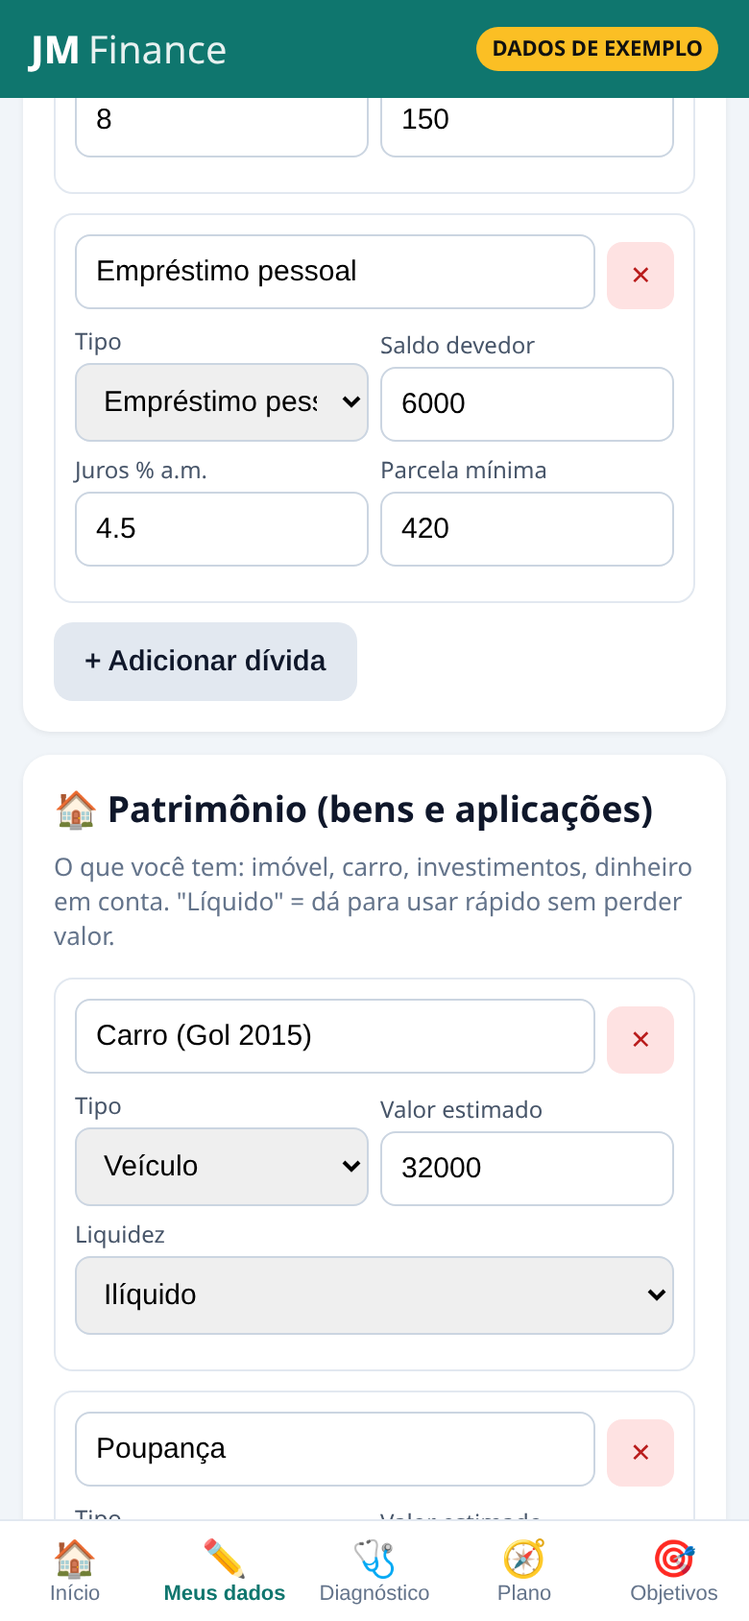
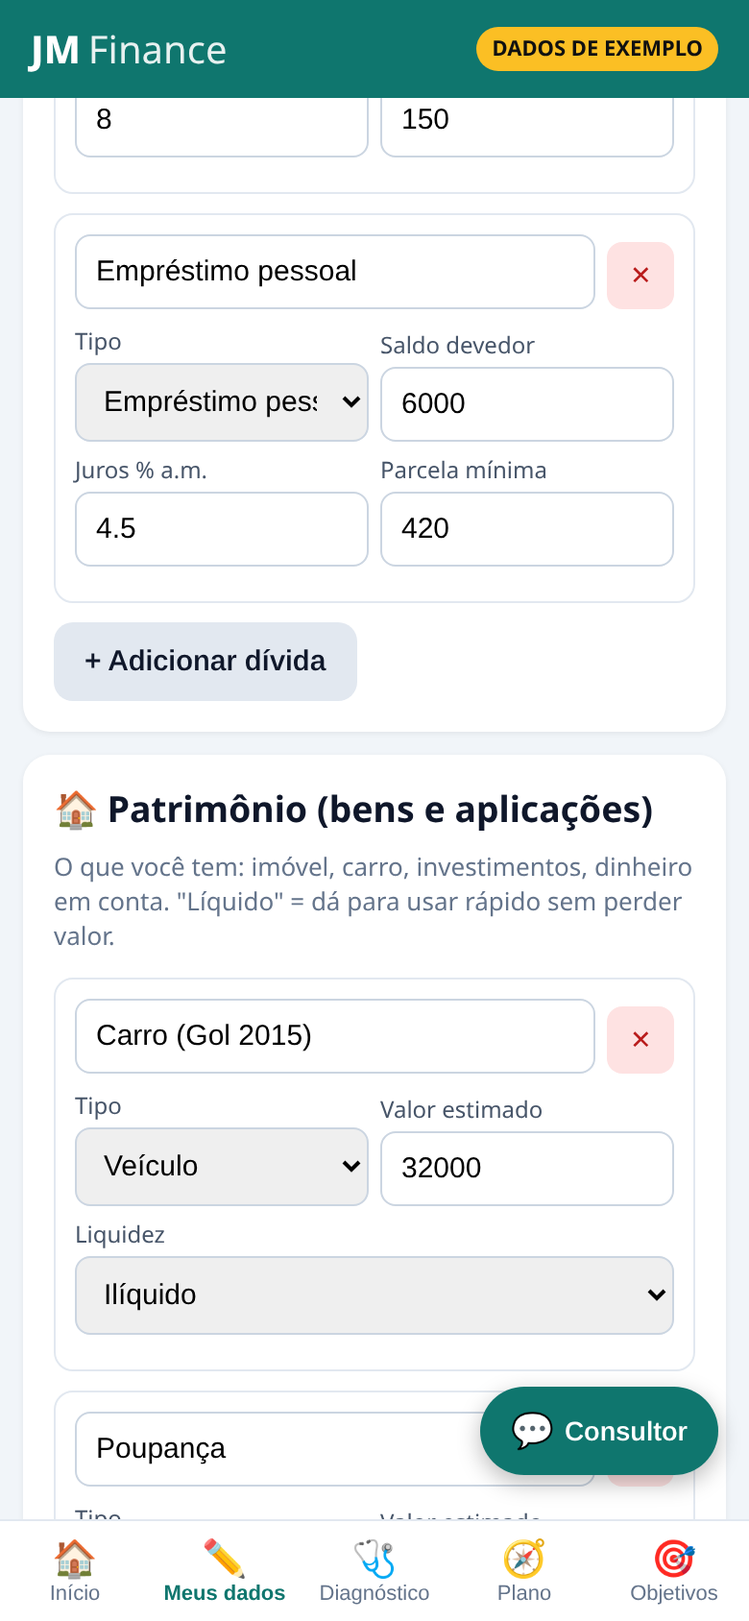
feat: Consultor JM (chat) com Modo simulação e módulo de IA agnóstico de provedor
- Botão flutuante 'Consultor' abre o chat (mantém as 5 abas)
- src/ai: interface ChatProvider.sendMessage(history, financialSummary), resumo financeiro, provedor simulado por regras e provedor remoto (futuro)
- Simulação detecta intenções (comprar/financiar, qual dívida, quanto guardar, sair do vermelho, investir, vender bens, objetivos) e responde com opções, prós, contras e riscos
- src/ai/prompt.ts: system prompt do LLM e placeholder AI_ENDPOINT_URL
- Selo MODO SIMULAÇÃO, sugestões rápidas, indicador de digitação, histórico no localStorage e aviso abaixo de cada resposta

Changed region(s): [[0.6154, 0.8318, 0.9846, 0.9242]]

diff --git a/src/ai/simulated.ts b/src/ai/simulated.ts
@@ -1,0 +1,137 @@
+import type { ChatMessage, ChatProvider, FinancialSummary as S } from './types';
+
+const brl = (n: number) => n.toLocaleString('pt-BR', { style: 'currency', currency: 'BRL' });
+const norm = (t: string) => t.toLowerCase().normalize('NFD').replace(/[\u0300-\u036f]/g, '');
+const END = '\n\nA decisão é sua — eu só mostro os caminhos e o que os números indicam.';
+
+/** Extrai um valor em reais do texto: "R$ 3.500", "3500", "3,5 mil", "40k" */
+export function parseValue(t: string): number | null {
+  const n = norm(t);
+  const m = n.match(/(\d{1,3}(?:\.\d{3})+|\d+)(?:,(\d+))?\s*(mil|k)?\b/);
+  if (!m) return null;
+  let v = Number(m[1].replace(/\./g, '') + (m[2] ? '.' + m[2] : ''));
+  if (m[3]) v *= 1000;
+  return v > 0 ? v : null;
+}
+const pmt = (pv: number, i: number, n: number) => pv * i / (1 - Math.pow(1 + i, -n));
+
+function noData() {
+  return 'Ainda não tenho seus números. Cadastre sua renda, gastos e dívidas em "Meus dados" (ou carregue os dados de exemplo na tela Início) e eu consigo responder com base na sua situação real.';
+}
+
+function purchase(s: S, text: string) {
+  const v = parseValue(text);
+  const exp = s.debts.filter(d => d.expensive);
+  const isFin = /financ|parcel|prestac|consorcio/.test(norm(text));
+  const lines: string[] = [];
+  if (!v) return 'Posso analisar! Me diga o valor aproximado, por exemplo: "posso financiar um carro de R$ 40 mil?" ou "posso comprar um celular de R$ 2.500?".';
+  lines.push(`Analisei uma compra de ${brl(v)} com base nos seus números:`);
+  lines.push(`• Saldo do mês hoje: ${brl(s.balance)} · Sobra após cortes sugeridos: ${brl(s.surplusAfterCuts)}`);
+  if (exp.length) lines.push(`• ⚠ Você tem dívidas caras (${exp.map(d => `${d.name} ${d.ratePctMonth}% a.m.`).join(', ')}). Pela ordem de prioridades, elas vêm antes de compras.`);
+  const free = s.freeForGoals, after = s.freeAfterDebts;
+  const parc24 = pmt(v, 0.02, 24);
+  lines.push('\nOpções:');
+  const P = s.payoff?.avalancheMonths ?? null;
+  let cashTxt: string;
+  if (s.debts.length && P && after > free) {
+    const during = Math.max(0, free) * P;
+    const m = v <= during ? Math.ceil(v / free) : P + Math.ceil((v - during) / after);
+    cashTxt = `guardando ${brl(Math.max(0, free))}/mês enquanto quita as dívidas (~${P} meses) e ~${brl(after)}/mês depois, leva ~${m} meses`;
+  } else cashTxt = free > 1 ? `guardando ${brl(free)}/mês leva ~${Math.ceil(v / free)} meses` : 'hoje não sobra dinheiro para guardar — primeiro é preciso criar folga no orçamento';
+  lines.push(`1) Juntar e comprar à vista — ${cashTxt}.\n   ✅ Prós: sem juros, dá para negociar desconto. ❌ Contras: demora mais. ⚠ Risco: baixo.`);
+  lines.push(`2) ${isFin ? 'Financiar' : 'Parcelar'} — ex.: 24x a ~2% a.m. ≈ ${brl(parc24)}/mês (total ≈ ${brl(parc24 * 24)}). Isso levaria seu comprometimento de ${s.commitmentPct.toFixed(0)}% para ~${s.income ? ((s.expenses + s.minPayments + parc24) / s.income * 100).toFixed(0) : '?'}% da renda.\n   ✅ Prós: tem o bem agora. ❌ Contras: paga ${brl(parc24 * 24 - v)} de juros. ⚠ Risco: ${parc24 > Math.max(0, s.surplusAfterCuts) ? 'ALTO — a parcela não cabe na sua sobra atual e pode gerar nova dívida.' : 'moderado — cabe, mas reduz sua folga para imprevistos.'}`);
+  lines.push(`3) Adiar ou buscar opção mais barata (usado, modelo inferior, alugar/emprestar).\n   ✅ Prós: protege seu plano. ❌ Contras: abrir mão do desejo agora.`);
+  if (s.liquidAssets > 0) lines.push(`\nVocê tem ${brl(s.liquidAssets)} em ativos líquidos, mas eles também são sua reserva de emergência (${s.reserveMonths.toFixed(1)} meses). Usar para a compra reduz sua proteção.`);
+  return lines.join('\n') + END;
+}
+
+function whichDebt(s: S) {
+  if (!s.debts.length) return 'Você não tem dívidas cadastradas. 🎉 O foco pode ser reserva de emergência e objetivos.' + END;
+  const p = s.payoff;
+  const l = [`Você tem ${s.debts.length} dívida(s), pagando ~${brl(s.monthlyInterest)} de juros por mês.`, '', 'Duas estratégias clássicas:'];
+  l.push(`1) Avalanche (maior juro primeiro): ${s.avalancheOrder.join(' → ')}.${p ? ` ${p.avalancheMonths ? `~${p.avalancheMonths} meses, ${brl(p.avalancheInterest)} de juros.` : 'Não quita com o orçamento atual.'}` : ''}\n   ✅ Paga menos juros. ❌ A primeira vitória pode demorar.`);
+  l.push(`2) Bola de neve (menor saldo primeiro): ${s.snowballOrder.join(' → ')}.${p ? ` ${p.snowballMonths ? `~${p.snowballMonths} meses, ${brl(p.snowballInterest)} de juros.` : 'Não quita com o orçamento atual.'}` : ''}\n   ✅ Vitórias rápidas dão motivação. ❌ Pode custar mais juros.`);
+  if (p && p.avalancheInterest < p.snowballInterest - 1) l.push(`\nOs números indicam que a avalanche economiza ~${brl(p.snowballInterest - p.avalancheInterest)}.`);
+  const exp = s.debts.filter(d => d.expensive);
+  if (exp.length) l.push(`\n3) Em paralelo: renegociar ${exp.map(d => d.name).join(' e ')} — trocar por crédito mais barato (ex.: consignado) pode reduzir muito os juros. ⚠ Risco: só funciona se você parar de usar o rotativo/cheque especial.`);
+  return l.join('\n') + END;
+}
+
+function howMuchSave(s: S) {
+  const l = [`Reserva de emergência: hoje ${brl(s.effReserve)} (${s.reserveMonths.toFixed(1)} meses). Meta de 6 meses: ${brl(s.reserveTarget6m)}.`];
+  l.push(`Livre para guardar agora: ${brl(s.freeForGoals)}/mês${s.debts.length ? ` (o restante da sobra vai para as dívidas); após quitá-las: ~${brl(s.freeAfterDebts)}/mês` : ''}.`);
+  if (s.goals.length) { l.push('\nSeus objetivos:'); s.goals.forEach(g => l.push(`• ${g.name}: ${brl(g.monthlyNeed)}/mês ${g.fits ? '✅ cabe' : '⚠ não cabe hoje'}`)); }
+  l.push('\nCaminhos possíveis:\n1) Guardar um valor fixo logo que o salário cai ("pague-se primeiro"). ✅ Disciplina automática. ❌ Exige ajustar o resto do mês.\n2) Guardar o que sobrar no fim do mês. ✅ Flexível. ❌ Geralmente não sobra nada.\n3) Regra 50/30/20: 20% da renda (' + brl(s.income * 0.2) + '/mês) para dívidas e reserva.');
+  if (s.debts.some(d => d.expensive)) l.push('\n⚠ Com dívidas caras, uma mini-reserva (~R$ 1.000) e depois foco total nas dívidas costuma render mais do que poupar.');
+  return l.join('\n') + END;
+}
+
+function outOfRed(s: S) {
+  const l = [`Sua nota é ${s.score}/100 (${s.level}). Você compromete ${s.commitmentPct.toFixed(0)}% da renda e ${s.balance < 0 ? `faltam ${brl(-s.balance)}` : `sobram ${brl(s.balance)}`} por mês.`];
+  if (s.suggestedCuts.length) l.push(`\nCortes que mais ajudam: ${s.suggestedCuts.slice(0, 3).map(c => `${c.name} (${brl(c.current)} → ${brl(c.suggested)})`).join('; ')}.`);
+  l.push('\nO caminho sugerido no seu plano:'); s.planSteps.slice(0, 5).forEach((t, i) => l.push(`${i + 1}. ${t}`));
+  l.push('\nAlternativas para acelerar:\n• Aumentar renda (freelas, vender o que não usa). ✅ Resolve mais rápido. ❌ Exige tempo/energia.\n• Renegociar dívidas. ✅ Reduz parcelas. ⚠ Pode alongar o prazo.');
+  if (s.debtToIncomePct > 50) l.push('\n⚠ Suas parcelas passam de 50% da renda — vale procurar ajuda profissional (Procon, Defensoria Pública ou programa de superendividamento do seu banco).');
+  return l.join('\n') + END;
+}
+
+function invest(s: S) {
+  const exp = s.debts.filter(d => d.expensive);
+  const l: string[] = [];
+  if (exp.length) l.push(`Antes de investir, um ponto importante: suas dívidas caras custam ${exp.map(d => `${d.ratePctMonth}% a.m.`).join(', ')}. Nenhum investimento seguro rende isso — quitar essas dívidas é, na prática, o "melhor investimento" disponível para você agora.`);
+  if (s.reserveMonths < 3) l.push(`Sua reserva cobre ${s.reserveMonths.toFixed(1)} meses. Normalmente o primeiro passo é completá-la (meta ${brl(s.reserveTarget6m)}) em aplicação de liquidez diária e baixo risco.`);
+  l.push('\nCategorias gerais (sem indicar produtos específicos):');
+  l.push('1) Renda fixa pós-fixada com liquidez diária — ✅ segura e resgatável a qualquer momento (ideal para reserva). ❌ Rende menos no longo prazo.');
+  l.push('2) Títulos públicos/renda fixa de prazo maior — ✅ bons para objetivos com data. ⚠ Resgate antes do prazo pode ter perda.');
+  l.push('3) Renda variável (ações, fundos imobiliários) — ✅ maior potencial no longo prazo. ⚠ Pode cair bastante; só com dinheiro que não vai precisar por anos.');
+  l.push('\nCritérios para comparar: prazo, liquidez, risco, custos/taxas e proteção do FGC. Para valores maiores, um planejador financeiro certificado (CFP) pode ajudar.');
+  return l.join('\n') + END;
+}
+
+function assets(s: S) {
+  if (!s.assets.length) return 'Você não cadastrou bens em "Meus dados → Patrimônio". Com eles eu consigo avaliar se vale usar algum para quitar dívidas.';
+  const l = [`Seu patrimônio total é ${brl(s.totalAssets)}, patrimônio líquido ${brl(s.netWorth)} e ${brl(s.liquidAssets)} são ativos líquidos.`];
+  const exp = s.debts.filter(d => d.expensive);
+  if (exp.length) {
+    l.push(`\nVocê tem ${brl(exp.reduce((a, d) => a + d.balance, 0))} em dívidas caras. Opções:`);
+    l.push('1) Vender um bem pouco usado para quitar. ✅ Elimina juros altos de uma vez. ❌ Perde o bem. ⚠ Venda rápida pode sair abaixo do valor.');
+    l.push('2) Trocar por um bem mais barato (ex.: carro mais simples) e usar a diferença. ✅ Mantém a utilidade. ❌ Dá trabalho.');
+    l.push('3) Manter tudo e seguir o plano de quitação. ✅ Sem perdas. ❌ Continua pagando ~' + brl(s.monthlyInterest) + '/mês de juros.');
+    l.push('\nAntes de decidir: o bem é essencial (ex.: carro para trabalhar)? Quanto custa mantê-lo (IPVA, seguro, manutenção)?');
+  } else l.push('\nSem dívidas caras, não há urgência em vender bens. Avalie custos de manutenção de bens parados.');
+  return l.join('\n') + END;
+}
+
+function goals(s: S) {
+  if (!s.goals.length) return 'Você ainda não tem objetivos. Cadastre na aba "Objetivos" (viagem, compra, aposentadoria...) e eu calculo quanto guardar.';
+  const l = ['Seus objetivos, por prioridade:'];
+  s.goals.forEach(g => l.push(`• ${g.name}: meta ${brl(g.target)}, já tem ${brl(g.saved)} → ${brl(g.monthlyNeed)}/mês ${g.fits ? '✅ cabe hoje' : '⚠ não cabe hoje'}`));
+  l.push(`\nLivre para objetivos: ${brl(s.freeForGoals)}/mês${s.debts.length ? `; após quitar as dívidas ~${brl(s.freeAfterDebts)}/mês` : ''}.`);
+  l.push('\nSe algum não cabe, as saídas são: estender o prazo, reduzir o valor ou cortar/ganhar mais por mês. A aba Objetivos mostra os números de cada opção.');
+  return l.join('\n') + END;
+}
+
+const HELP = 'Sou o Consultor JM (modo simulação). Posso analisar com seus números:\n• "Posso comprar/financiar algo de R$ X?"\n• "Qual dívida pagar primeiro?"\n• "Quanto devo guardar por mês?"\n• "Como sair do vermelho?"\n• "Vale a pena investir agora?"\n• "Devo vender meu carro para quitar dívidas?"\n• "Meus objetivos cabem no orçamento?"';
+
+export function simulatedReply(text: string, s: S): string {
+  const t = norm(text);
+  if (/^(oi|ola|bom dia|boa tarde|boa noite|ajuda|help)\b/.test(t) && t.length < 25) return HELP;
+  if (!s.hasData) return noData();
+  if (/vender|patrimonio|bens?\b|imovel|usar (meu|minha)/.test(t)) return assets(s);
+  if (/compr|financi|parcel|gastar|trocar de/.test(t)) return purchase(s, text);
+  if (/qual divida|pagar primeiro|quitar|avalanche|bola de neve|renegoci/.test(t)) return whichDebt(s);
+  if (/invest|aplicar|render|tesouro|acoes|cdb/.test(t)) return invest(s);
+  if (/objetivo|meta|viagem|aposent/.test(t)) return goals(s);
+  if (/guardar|poupar|economizar|reserva|quanto devo/.test(t)) return howMuchSave(s);
+  if (/vermelho|sair d|endivid|apertad|nao sobra|divida|situacao|diagnostic/.test(t)) return outOfRed(s);
+  return 'Não tenho certeza se entendi. ' + HELP;
+}
+
+export const simulatedProvider: ChatProvider = {
+  id: 'simulated', label: 'Modo simulação', simulated: true,
+  async sendMessage(history: ChatMessage[], summary: S) {
+    const last = [...history].reverse().find(m => m.role === 'user');
+    await new Promise(r => setTimeout(r, 700 + Math.random() * 600));
+    return simulatedReply(last?.content ?? '', summary);
+  },
+};

diff --git a/src/Chat.tsx b/src/Chat.tsx
@@ -1,0 +1,47 @@
+import { useEffect, useMemo, useRef, useState } from 'react';
+import { Data, DISCLAIMER, uid } from './finance';
+import { getProvider, buildSummary, ChatMessage } from './ai';
+
+const KEY = 'jmfinance:chat';
+const CHIPS = ['Como sair do vermelho?', 'Qual dívida pagar primeiro?', 'Posso financiar um carro de R$ 40 mil?', 'Quanto devo guardar por mês?', 'Vale a pena investir agora?', 'Devo vender um bem para quitar dívidas?'];
+const loadChat = (): ChatMessage[] => { try { const v = JSON.parse(localStorage.getItem(KEY) || '[]'); return Array.isArray(v) ? v : []; } catch { return []; } };
+
+export default function Chat({ data, onClose }: { data: Data; onClose: () => void }) {
+  const provider = useMemo(getProvider, []);
+  const [msgs, setMsgs] = useState<ChatMessage[]>(loadChat);
+  const [text, setText] = useState('');
+  const [typing, setTyping] = useState(false);
+  const end = useRef<HTMLDivElement>(null);
+  useEffect(() => { localStorage.setItem(KEY, JSON.stringify(msgs.slice(-100))); end.current?.scrollIntoView({ behavior: 'smooth' }); }, [msgs, typing]);
+
+  async function send(q: string) {
+    q = q.trim(); if (!q || typing) return;
+    const history = [...msgs, { id: uid(), role: 'user' as const, content: q, at: Date.now() }];
+    setMsgs(history); setText(''); setTyping(true);
+    let reply: string;
+    try { reply = await provider.sendMessage(history, buildSummary(data)); }
+    catch { reply = 'Não consegui responder agora. Tente novamente em instantes.'; }
+    setMsgs(m => [...m, { id: uid(), role: 'assistant', content: reply, at: Date.now() }]); setTyping(false);
+  }
+
+  return <div className="chat">
+    <div className="chat-head">
+      <button className="chat-back" onClick={onClose} aria-label="Fechar">←</button>
+      <div><b>Consultor JM</b>{provider.simulated && <span className="badge-sim">MODO SIMULAÇÃO</span>}</div>
+      {msgs.length > 0 && <button className="link chat-clear" onClick={() => setMsgs([])}>Limpar</button>}
+    </div>
+    <div className="chat-body">
+      <div className="msg bot"><p>Olá! Sou o Consultor JM. Analiso seus números e mostro opções com prós, contras e riscos. Pergunte o que quiser sobre suas finanças.</p>
+        {provider.simulated && <p className="sim-note">Modo simulação: respostas automáticas baseadas em regras e nos seus dados. A IA real ainda não está conectada.</p>}
+        <p className="jm-disc">{DISCLAIMER}</p></div>
+      {msgs.map(m => <div key={m.id} className={`msg ${m.role === 'user' ? 'me' : 'bot'}`}><p>{m.content}</p>{m.role === 'assistant' && <p className="jm-disc">{DISCLAIMER}</p>}</div>)}
+      {typing && <div className="msg bot typing"><span /><span /><span /></div>}
+      <div ref={end} />
+    </div>
+    <div className="chips">{CHIPS.map(c => <button key={c} onClick={() => send(c)} disabled={typing}>{c}</button>)}</div>
+    <form className="chat-input" onSubmit={e => { e.preventDefault(); send(text); }}>
+      <input value={text} onChange={e => setText(e.target.value)} placeholder="Digite sua pergunta..." />
+      <button className="btn" disabled={!text.trim() || typing}>Enviar</button>
+    </form>
+  </div>;
+}

diff --git a/src/index.css b/src/index.css
@@ -36,3 +36,18 @@ nav button span{font-size:20px}nav button.on{color:#0f766e;font-weight:700}
 .finding ul{margin:4px 0;padding-left:18px;font-size:14px}
 nav button{font-size:11px;min-width:0}nav button span{font-size:19px}
 @media (max-width:360px){.grid3{grid-template-columns:1fr}}
+.fab{position:fixed;right:max(16px,calc(50% - 344px));bottom:76px;z-index:6;background:#0f766e;color:#fff;border:0;border-radius:99px;padding:12px 16px;font-size:18px;box-shadow:0 4px 12px #0004;display:flex;gap:6px;align-items:center;cursor:pointer}
+.fab span{font-size:14px;font-weight:600}
+.chat{position:fixed;inset:0;z-index:20;background:#f1f5f9;display:flex;flex-direction:column;max-width:720px;margin:0 auto}
+.chat-head{background:#0f766e;color:#fff;padding:12px;display:flex;align-items:center;gap:10px}.chat-head>div{flex:1}
+.chat-back{background:none;border:0;color:#fff;font-size:22px;cursor:pointer}.chat-clear{color:#fff}
+.badge-sim{background:#fbbf24;color:#111;font-size:10px;font-weight:700;padding:3px 7px;border-radius:99px;margin-left:8px;vertical-align:middle}
+.chat-body{flex:1;overflow-y:auto;padding:12px;display:flex;flex-direction:column;gap:8px}
+.msg{max-width:88%;padding:10px 12px;border-radius:14px;font-size:14px;line-height:1.4}.msg p{margin:0;white-space:pre-wrap}
+.msg.bot{background:#fff;align-self:flex-start;border-bottom-left-radius:4px;box-shadow:0 1px 2px #0001}
+.msg.me{background:#0f766e;color:#fff;align-self:flex-end;border-bottom-right-radius:4px}
+.sim-note{font-size:12px;color:#92400e;background:#fffbeb;padding:6px;border-radius:6px;margin-top:6px!important}
+.typing{display:flex;gap:4px;padding:14px}.typing span{width:8px;height:8px;border-radius:50%;background:#94a3b8;animation:b 1s infinite}
+.typing span:nth-child(2){animation-delay:.15s}.typing span:nth-child(3){animation-delay:.3s}@keyframes b{0%,60%,100%{opacity:.3;transform:none}30%{opacity:1;transform:translateY(-4px)}}
+.chips{display:flex;gap:6px;overflow-x:auto;padding:6px 12px}.chips button{flex:0 0 auto;border:1px solid #0f766e;color:#0f766e;background:#fff;border-radius:99px;padding:6px 10px;font-size:13px;cursor:pointer}
+.chat-input{display:flex;gap:6px;padding:8px 12px calc(8px + env(safe-area-inset-bottom));background:#fff;border-top:1px solid #e2e8f0}

diff --git a/src/ai/prompt.ts b/src/ai/prompt.ts
@@ -1,0 +1,26 @@
+import type { FinancialSummary } from './types';
+
+/**
+ * Endpoint serverless futuro (ex.: Cloudflare Worker / Vercel Function) que guardará a chave da IA.
+ * NUNCA coloque chaves de API no app — o app chama este endpoint, que chama o LLM.
+ * Deixe vazio para usar o Modo simulação.
+ */
+export const AI_ENDPOINT_URL = ''; // ex.: 'https://jm-finance-ai.<conta>.workers.dev/chat'
+
+export const SYSTEM_PROMPT = `Você é o "Consultor JM", assistente do app JM Finance, voltado a brasileiros sem formação em finanças.
+Responda sempre em português do Brasil, com linguagem simples, acolhedora e direta, sem jargões (ou explicando-os).
+
+Como agir:
+- Use SEMPRE o resumo financeiro fornecido (renda, gastos, dívidas, juros, reserva, patrimônio, objetivos e plano) para personalizar a resposta, citando números concretos em reais (R$).
+- Seja consultivo: apresente OPÇÕES (normalmente 2 a 3), cada uma com prós, contras e riscos. Diga o que os números indicam, mas NUNCA tome a decisão pelo usuário nem use tom de ordem.
+- Respeite a ordem de prioridades financeiras: 1) parar de criar dívida e equilibrar o mês; 2) quitar/renegociar dívidas caras (rotativo, cheque especial, juros altos); 3) reserva de emergência; 4) objetivos e investimentos.
+- Para compras/financiamentos, avalie impacto no orçamento livre, no plano de dívidas e nos objetivos; compare à vista x parcelado x adiar.
+- NÃO recomende produtos de investimento específicos (nomes de fundos, ações, bancos, corretoras ou títulos individuais). Pode explicar categorias gerais (renda fixa, liquidez diária, Tesouro, previdência) e critérios de escolha (prazo, liquidez, risco, custo).
+- Não invente dados que não estão no resumo; se faltar informação, pergunte.
+- Em casos complexos (superendividamento grave, questões jurídicas, impostos, herança, investimentos de alto valor), recomende procurar um profissional certificado (ex.: planejador financeiro CFP, Defensoria Pública, Procon).
+- Seja breve: no máximo ~200 palavras, use tópicos.
+- Termine lembrando que a decisão é do usuário.`;
+
+export function buildContext(summary: FinancialSummary) {
+  return `Resumo financeiro do usuário (JSON):\n${JSON.stringify(summary)}`;
+}

diff --git a/src/ai/summary.ts b/src/ai/summary.ts
@@ -1,0 +1,24 @@
+import { Data, CATEGORIES, DEBT_TYPES, ASSET_TYPES, GOAL_TYPES, diagnose, actionPlan, order, evaluateGoals } from '../finance';
+import type { FinancialSummary } from './types';
+
+export function buildSummary(d: Data): FinancialSummary {
+  const r = diagnose(d); const p = actionPlan(d); const g = evaluateGoals(d);
+  const expIds = new Set(r.expensive.map(x => x.id));
+  void CATEGORIES;
+  return {
+    hasData: d.incomes.length > 0,
+    income: r.income, expenses: r.expenses, minPayments: r.minPayments, balance: r.balance,
+    commitmentPct: r.commitment * 100, debtToIncomePct: r.dti * 100, monthlyInterest: r.monthlyInterest,
+    score: r.score, level: r.level,
+    reserve: r.reserve, effReserve: r.effReserve, reserveMonths: r.reserveMonths, reserveTarget6m: (r.essentials + r.minPayments) * 6,
+    totalAssets: r.totalAssets + r.reserve, liquidAssets: r.liquidAssets + r.reserve, netWorth: r.netWorth,
+    assets: d.assets.map(a => ({ name: a.name, type: ASSET_TYPES[a.type]?.label ?? a.type, value: a.value, liquid: a.liquid })),
+    debts: d.debts.map(x => ({ name: x.name, type: DEBT_TYPES[x.type], balance: x.balance, ratePctMonth: x.rate, minPayment: x.minPayment, expensive: expIds.has(x.id) })),
+    avalancheOrder: order(d.debts, 'avalanche').map(x => x.name), snowballOrder: order(d.debts, 'snowball').map(x => x.name),
+    payoff: p.payoff ? { monthlyBudget: p.payoff.budget, avalancheMonths: p.payoff.av.feasible ? p.payoff.av.months : null, avalancheInterest: p.payoff.av.interest,
+      snowballMonths: p.payoff.sb.feasible ? p.payoff.sb.months : null, snowballInterest: p.payoff.sb.interest } : undefined,
+    surplusAfterCuts: p.surplus, freeForGoals: p.freeForGoals, freeAfterDebts: g.freeAfter, suggestedCuts: p.cuts,
+    goals: g.results.map(x => ({ name: x.goal.name, type: GOAL_TYPES[x.goal.type], target: x.target, saved: x.goal.saved, monthsLeft: x.months, monthlyNeed: x.need, fits: x.fits, priority: x.goal.priority })),
+    planSteps: p.steps.map(s => s.title),
+  };
+}

diff --git a/src/App.tsx b/src/App.tsx
@@ -1,4 +1,5 @@
 import { useEffect, useMemo, useState } from 'react';
+import Chat from './Chat';
 import { PieChart, Pie, Cell, Tooltip, ResponsiveContainer, BarChart, Bar, XAxis, YAxis, LineChart, Line, Legend, CartesianGrid } from 'recharts';
 import { Data, Category, DebtType, AssetType, GoalType, Priority, Goal, CATEGORIES, DEBT_TYPES, ASSET_TYPES, GOAL_TYPES, PRIORITIES, DISCLAIMER, brl, pct, uid, emptyData, exampleData, diagnose, actionPlan, order, migrate, evaluateGoals } from './finance';
 
@@ -16,6 +17,7 @@ export default function App() {
   useEffect(() => localStorage.setItem(KEY, JSON.stringify(data)), [data]);
   const upd = (p: Partial<Data>) => setData(d => ({ ...d, ...p, isExample: p.isExample ?? d.isExample }));
   const hasData = data.incomes.length > 0;
+  const [chat, setChat] = useState(() => new URLSearchParams(location.search).get('chat') === '1');
   return (
     <div className="app">
       <header><div className="logo">JM<span>Finance</span></div>
@@ -27,6 +29,8 @@ export default function App() {
         {tab === 'plano' && (hasData ? <Plan data={data} /> : <Empty go={setTab} />)}
         {tab === 'objetivos' && <Goals data={data} upd={upd} />}
       </main>
+      {!chat && <button className="fab" onClick={() => setChat(true)} aria-label="Consultor JM">💬<span>Consultor</span></button>}
+      {chat && <Chat data={data} onClose={() => setChat(false)} />}
       <nav>
         {([['inicio', '🏠', 'Início'], ['dados', '✏', 'Meus dados'], ['diagnostico', '🩺', 'Diagnóstico'], ['plano', '🧭', 'Plano'], ['objetivos', '🎯', 'Objetivos']] as const).map(([k, i, l]) =>
           <button key={k} className={tab === k ? 'on' : ''} onClick={() => setTab(k)}><span>{i}</span>{l}</button>)}

diff --git a/src/ai/types.ts b/src/ai/types.ts
@@ -1,0 +1,27 @@
+export type ChatRole = 'user' | 'assistant';
+export type ChatMessage = { id: string; role: ChatRole; content: string; at: number };
+
+/** Resumo financeiro enviado ao consultor (simulado ou LLM real). Sem dados identificáveis. */
+export type FinancialSummary = {
+  hasData: boolean;
+  income: number; expenses: number; minPayments: number; balance: number;
+  commitmentPct: number; debtToIncomePct: number; monthlyInterest: number;
+  score: number; level: string;
+  reserve: number; effReserve: number; reserveMonths: number; reserveTarget6m: number;
+  totalAssets: number; liquidAssets: number; netWorth: number;
+  assets: { name: string; type: string; value: number; liquid: boolean }[];
+  debts: { name: string; type: string; balance: number; ratePctMonth: number; minPayment: number; expensive: boolean }[];
+  avalancheOrder: string[]; snowballOrder: string[];
+  payoff?: { monthlyBudget: number; avalancheMonths: number | null; avalancheInterest: number; snowballMonths: number | null; snowballInterest: number };
+  surplusAfterCuts: number; freeForGoals: number; freeAfterDebts: number; suggestedCuts: { name: string; current: number; suggested: number }[];
+  goals: { name: string; type: string; target: number; saved: number; monthsLeft: number; monthlyNeed: number; fits: boolean; priority: string }[];
+  planSteps: string[];
+};
+
+/** Interface agnóstica de provedor: qualquer backend (simulação, OpenAI, etc.) implementa isto. */
+export interface ChatProvider {
+  id: string;
+  label: string;
+  simulated: boolean;
+  sendMessage(history: ChatMessage[], financialSummary: FinancialSummary): Promise<string>;
+}

diff --git a/src/ai/remote.ts b/src/ai/remote.ts
@@ -1,0 +1,17 @@
+import type { ChatProvider } from './types';
+import { AI_ENDPOINT_URL, SYSTEM_PROMPT, buildContext } from './prompt';
+
+/** Provedor real (futuro): envia histórico + resumo ao endpoint serverless, que chama o LLM. */
+export const remoteProvider: ChatProvider = {
+  id: 'remote', label: 'Consultor JM (IA)', simulated: false,
+  async sendMessage(history, financialSummary) {
+    const res = await fetch(AI_ENDPOINT_URL, {
+      method: 'POST', headers: { 'Content-Type': 'application/json' },
+      body: JSON.stringify({ system: SYSTEM_PROMPT, context: buildContext(financialSummary),
+        messages: history.map(m => ({ role: m.role, content: m.content })) }),
+    });
+    if (!res.ok) throw new Error(`Erro ${res.status}`);
+    const j = await res.json();
+    return String(j.reply ?? '');
+  },
+};

diff --git a/src/ai/index.ts b/src/ai/index.ts
@@ -1,0 +1,8 @@
+import type { ChatProvider } from './types';
+import { AI_ENDPOINT_URL } from './prompt';
+import { simulatedProvider } from './simulated';
+import { remoteProvider } from './remote';
+
+export function getProvider(): ChatProvider { return AI_ENDPOINT_URL ? remoteProvider : simulatedProvider; }
+export * from './types';
+export { buildSummary } from './summary';
